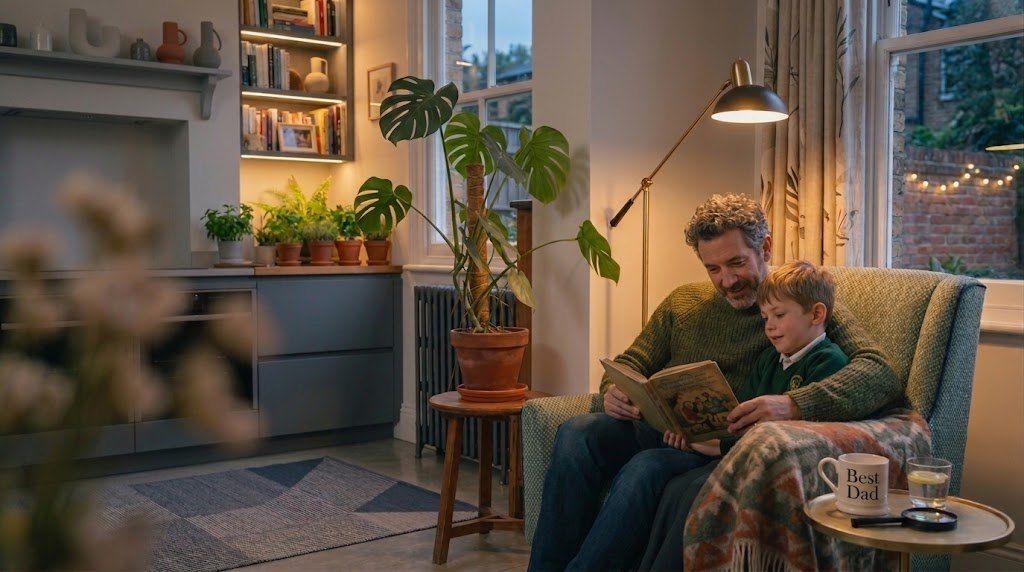
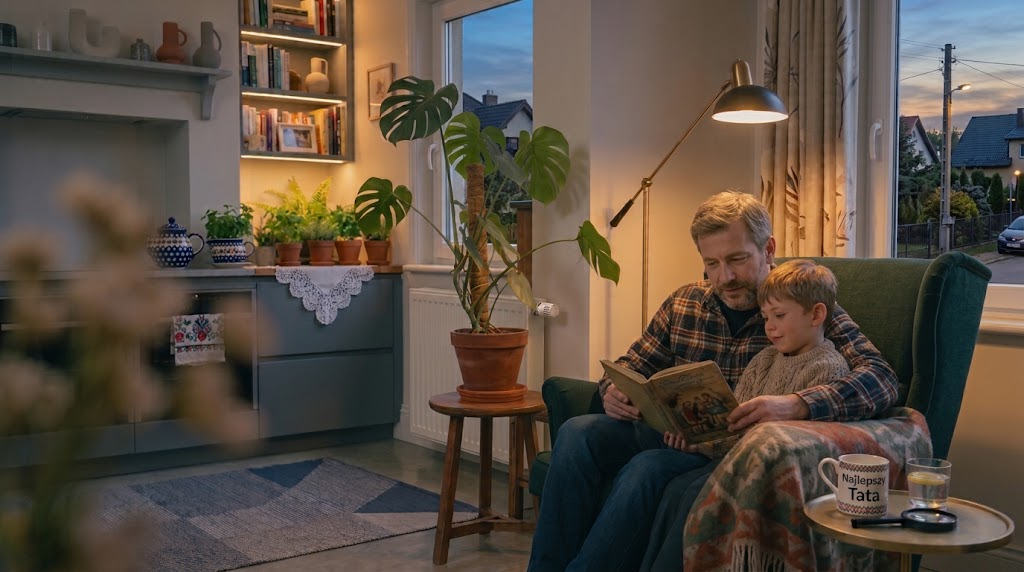
Refresh Co Gdyby imagery and photo framing
Updated the Co Gdyby logo and lifestyle/hero photography across the site, plus refreshed page alt text to match the new family-focused imagery. Added targeted image crop positioning for portrait and right-leaning lifestyle photos so faces stay framed consistently across page layouts.

diff --git a/src/styles/global.css b/src/styles/global.css
@@ -646,6 +646,10 @@ body.nav-open::after {
   overflow: hidden;
 }
 .lifestyle-img { width: 100%; height: clamp(260px, 42vw, 440px); object-fit: cover; }
+/* Photos whose people sit on the right: keep them in frame when phones crop the sides. */
+.lifestyle-img--right { object-position: 80% center; }
+/* Portrait photo in a wide band: the band shows ~30% of its height, so aim the window at both faces. */
+.lifestyle-img--portrait { object-position: 50% 56%; }
 .lifestyle-inner::after {
   content: "";
   position: absolute;
